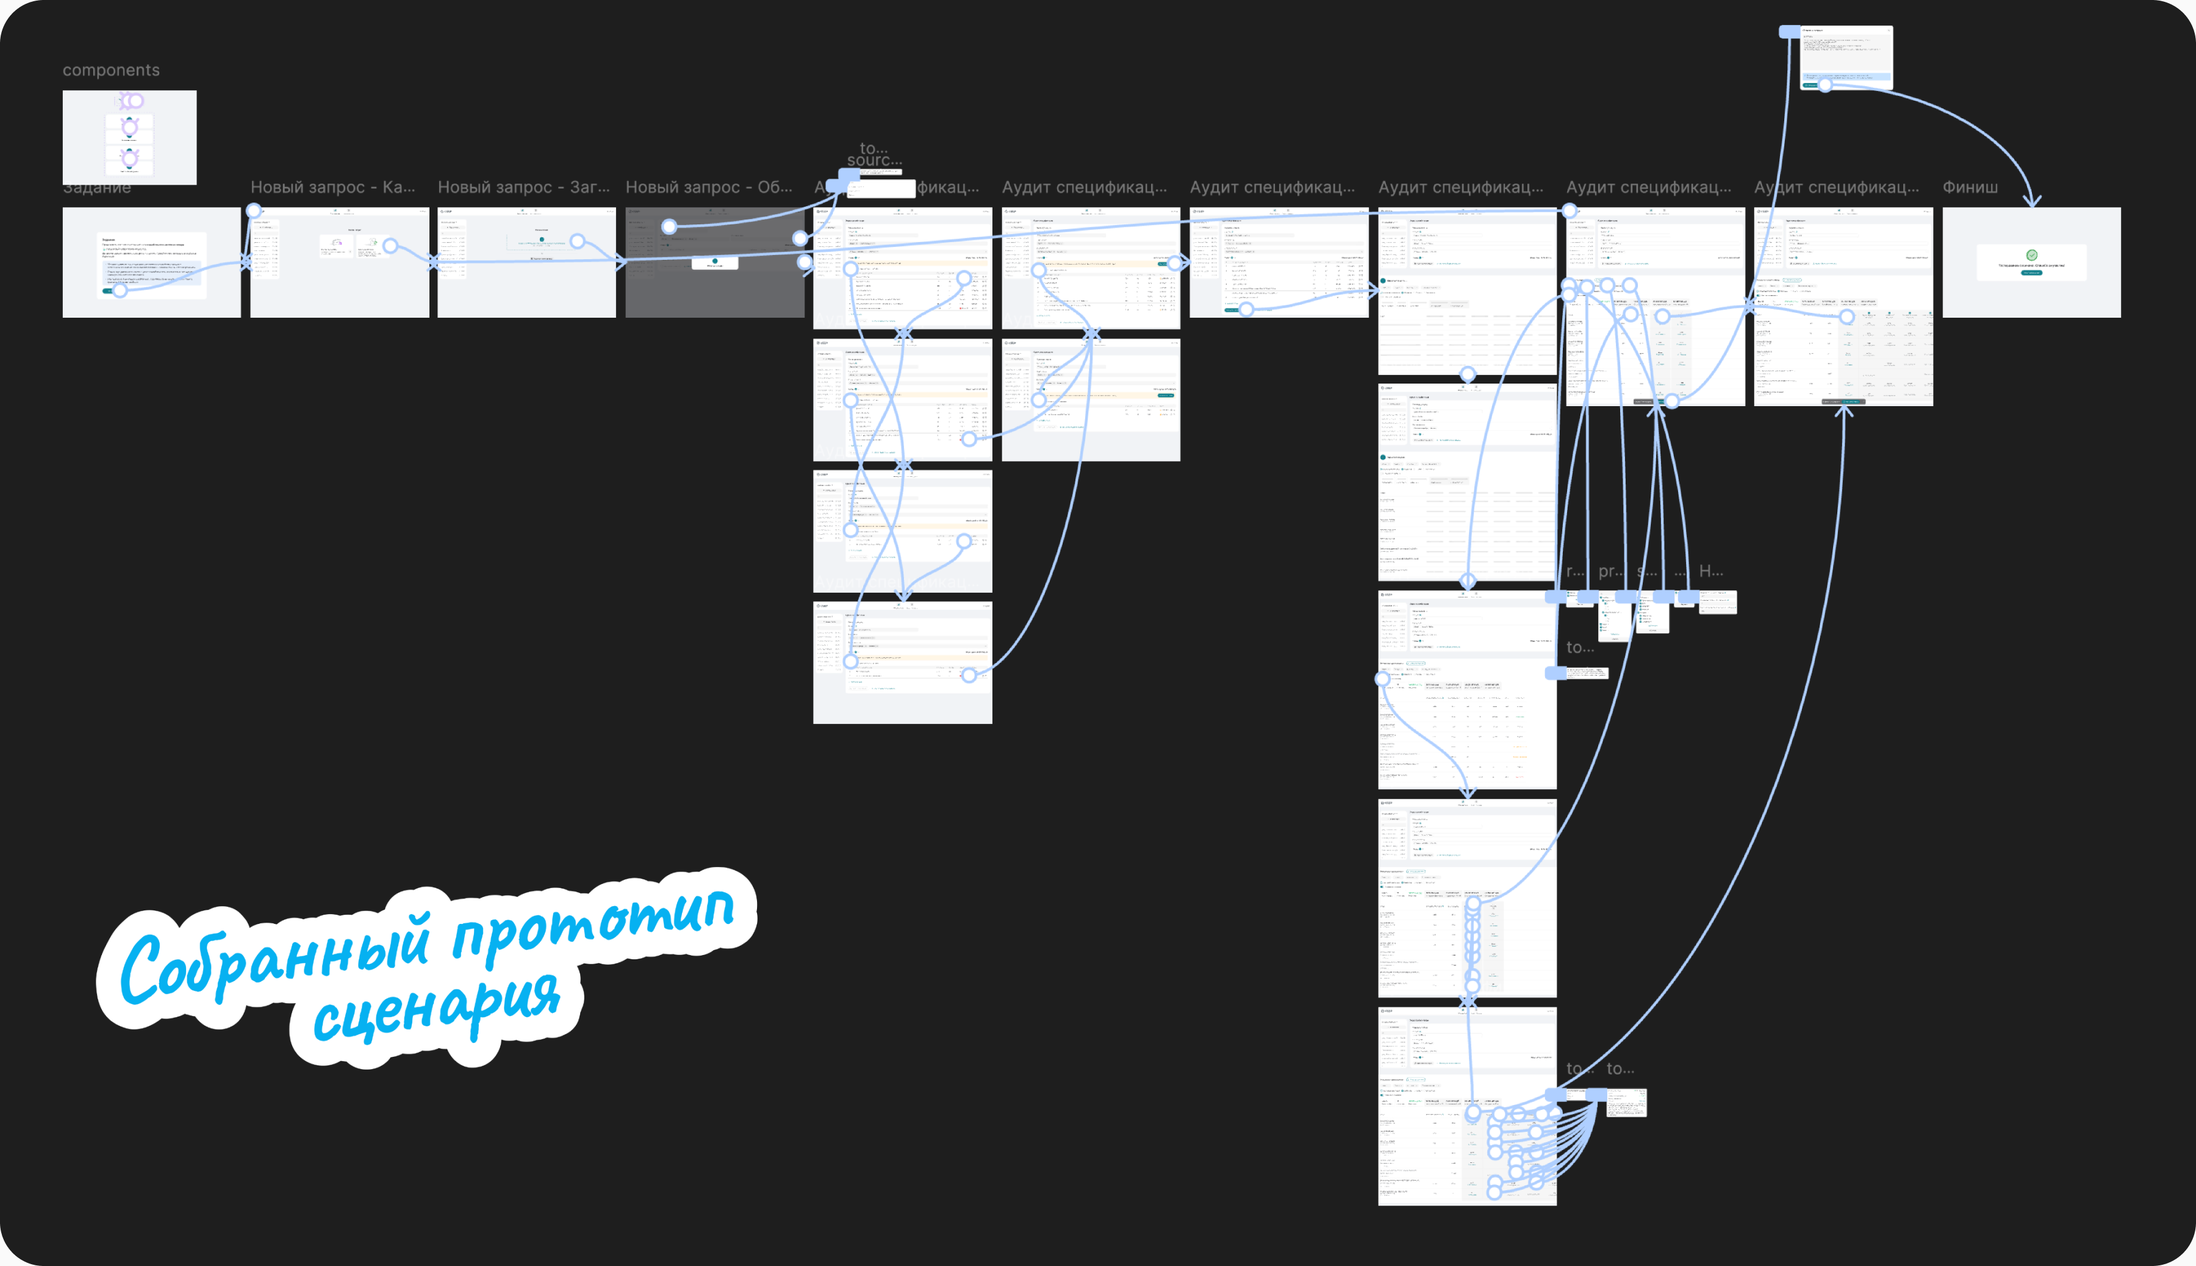
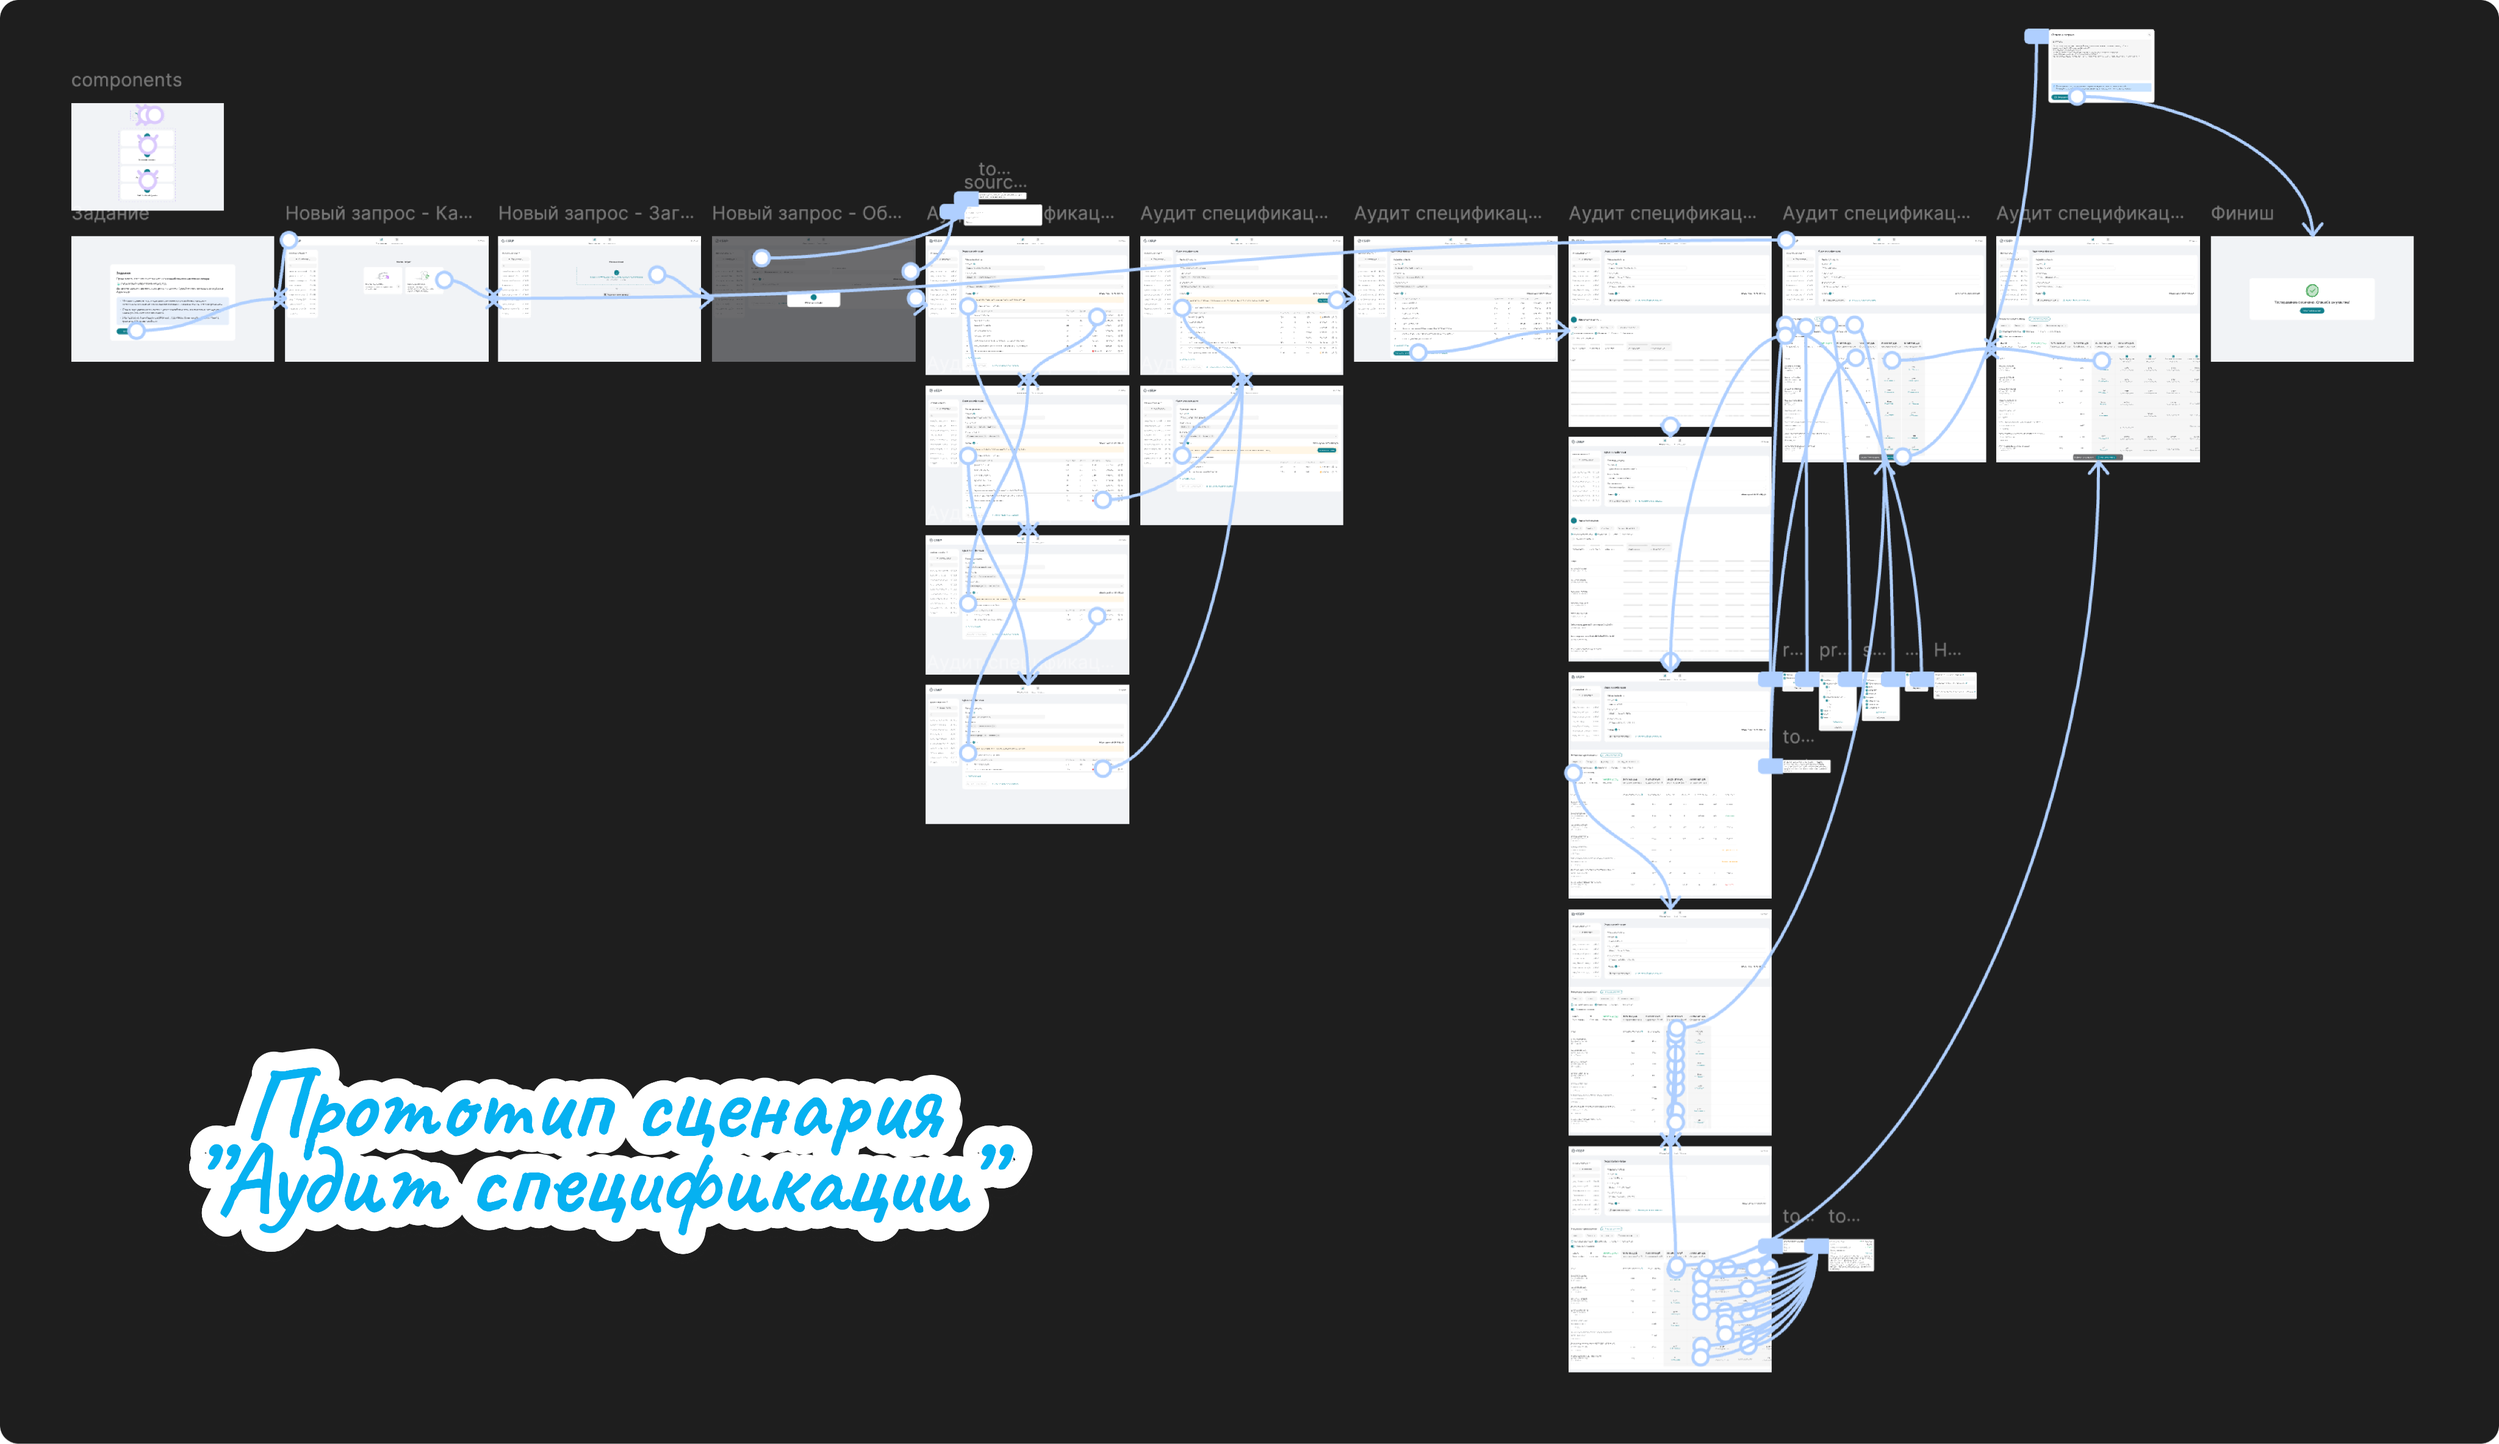
Sync three case pages with their current mockups
Captions: the mockups replaced four of them with a sticker layer we
decided not to build, so the images keep captions and take the sticker
wording, which is the newer copy.

client-interface-builder: pre-title "Контекст" -> "Контекст задачи",
"2 раунд" -> "2-й раунд", and the survey caption loses a duplicated
fragment. datasets-and-models-catalogs: OpenML drops out of the
competitor list, the final-design heading gains "и сценарий
публикации", and a third gallery lands with the publication flow.
price-audit-usability: "Инсайты" and "Доработка" are spaced 64px apart
rather than 44, image radii corrected to 24 and 16.

Only one image actually changed — prototype-flow, whose baked-in
sticker now reads "Прототип сценария «Аудит спецификации»". The other
33 matched the Figma exports pixel for pixel. sketch.png deliberately
stays on the repo copy: its sticker is baked into the bitmap, while the
fresh export has it lifted onto a separate layer we are not building.

diff --git a/src/i18n/en.ts b/src/i18n/en.ts
@@ -76,6 +76,7 @@ export const EN: Record<string, string> = {
 
   // Shared across multiple case pages
   'Контекст': 'Context',
+  'Контекст задачи': 'Task context',
   'Задача': 'Task',
   'Процесс': 'Process',
   'Инсайты': 'Insights',
@@ -88,7 +89,6 @@ export const EN: Record<string, string> = {
   'Очное модерируемое': 'In-person, moderated',
   'Ключевые инсайты': 'Key insights',
   'Методология': 'Methodology',
-  'Прототип': 'Prototype',
   'Цель исследования': 'Research goal',
   '5 человек': '5 people',
   'Старый вариант': 'Old version',
@@ -133,16 +133,19 @@ export const EN: Record<string, string> = {
   'Непонятна категоризация, названия и назначение блоков, из которых строится клиентский интерфейс':
     'The categorization, names, and purpose of the blocks that make up the client interface are unclear',
   'Новая итерация и финальное дизайн-решение': 'New iteration and final design solution',
-  'На основе фидбэка и референсов собрал новый прототип и провел 2 раунд тестирования. Критических проблем не выявил':
+  'На основе фидбэка и референсов собрал новый прототип и провел 2-й раунд тестирования. Критических проблем не выявил':
     'Based on feedback and references, I built a new prototype and ran a 2nd round of testing. No critical issues were found',
   'Комментарии касались в основном текстов, которые доработал во время сборки финальных макетов':
     'Comments were mostly about copy, which I refined while assembling the final mockups',
-  'Предварительный опрос, на основе которого формируются статусы публикуемого продукта':
-    "A preliminary survey used to generate the published product's statuses",
-  'Главный экран конструктора со статусной сеткой и карточками с наполнением статусов':
-    'The builder\'s main screen with the status grid and status-content cards',
+  'Опрос, на основе которого формируются статусы публикуемого продукта':
+    "The survey that generates the published product's statuses",
   'Каталог блоков и примеры их настройки': 'Block catalog and configuration examples',
-  'Режим предпросмотра настроенного интерфейса': 'Preview mode for the configured interface',
+
+  'Первый прототип конструктора': 'First prototype of the builder',
+  'Главный экран конструктора, на котором видны статусы и их наполнение':
+    'The builder’s main screen, showing the statuses and their content',
+  'Режим предпросмотра настроенного интерфейса для проверки':
+    'Preview mode for checking the configured interface',
   'Спроектировал и протестировал гибкий инструмент для создания клиентских интерфейсов на базе Платформы AI':
     'Designed and tested a flexible tool for building client interfaces on Platform AI',
   'Конструктор рассчитан на потребности продуктов, которые публиковались в каталоге. Будучи единственным дизайнером на проекте, провёл весь цикл самостоятельно за 2 месяца — от исследования аналогов до финальных макетов':
@@ -155,8 +158,8 @@ export const EN: Record<string, string> = {
     'A tool was needed to let specialists find the data and models they need by relevant criteria, and let owners publish them with flexible access settings (public or restricted) with room for future monetization',
   'Конкурентный анализ': 'Competitive analysis',
   'На рынке уже существовали похожие решения, поэтому начал с анализа аналогов': 'Similar solutions already existed on the market, so I started with a competitive analysis',
-  'Разобрал концепции, особенности способы монетизации и UI-паттерны Hugging Face, Kaggle, OpenML, data.world, Amazon Data Marketplace, Google Dataset Search':
-    'Broke down the concepts, monetization approaches and UI patterns of Hugging Face, Kaggle, OpenML, data.world, Amazon Data Marketplace, and Google Dataset Search',
+  'Разобрал концепции, особенности способы монетизации и UI-паттерны Hugging Face, Kaggle, data.world, Amazon Data Marketplace, Google Dataset Search':
+    'Broke down the concepts, monetization approaches and UI patterns of Hugging Face, Kaggle, data.world, Amazon Data Marketplace, and Google Dataset Search',
   'Интервью': 'Interviews',
   'Провёл 5 интервью с ML и DS-специалистами, чтобы понять, как они на самом деле ищут модели и датасеты':
     'Ran 5 interviews with ML and DS specialists to understand how they actually search for models and datasets',
@@ -170,12 +173,13 @@ export const EN: Record<string, string> = {
   'При поиске моделей обращают внимание на тип решаемой задачи, могут отфильтровать по фреймворку':
     'When searching for models, users pay attention to the task type and may filter by framework',
   'Финальное дизайн-решение': 'Final design',
-  'На основе инсайтов из интервью и конкурентного анализа спроектировал ключевые разделы':
-    'Designed the key sections based on insights from the interviews and competitive analysis',
+  'На основе инсайтов из интервью и конкурентного анализа спроектировал ключевые разделы и сценарий публикации':
+    'Designed the key sections and the publishing flow based on insights from the interviews and competitive analysis',
   'Отрисовал каталоги моделей и датасетов с фильтрами, страницы моделей и датасетов с описаниями, разделы для публикации на Платформе. UI построен на компонентах дизайн-системы "Малахит"':
     'Designed model and dataset catalogs with filters, model and dataset detail pages with descriptions, and publishing sections on the Platform. The UI is built on the "Malachite" design system components',
   'Каталоги датасетов и моделей с карточками и фильтрацией': 'Dataset and model catalogs with cards and filtering',
   'Страницы датасета и модели': 'Dataset and model pages',
+  'Сценарий публикации датасета': 'The dataset publishing flow',
   'Спроектировал каталоги моделей и датасетов для Платформы AI':
     'Designed the model and dataset catalogs for Platform AI',
   'Каталоги и страницы датасетов и моделей рассчитаны на сценарии внутренних и внешних ML/DS-специалистов. Будучи единственным дизайнером на разделе, провёл весь цикл самостоятельно за месяц — от конкурентного анализа и интервью до финальных макетов':
